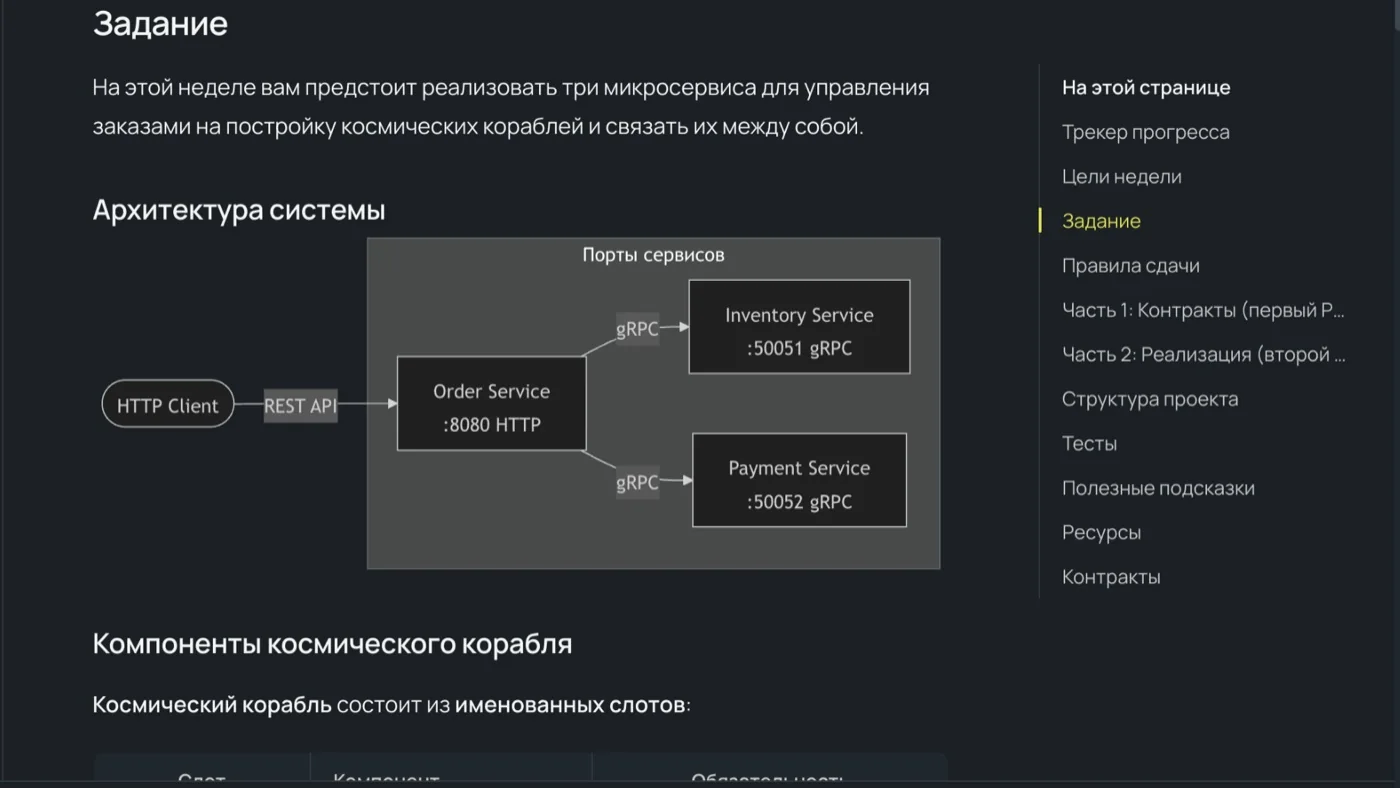
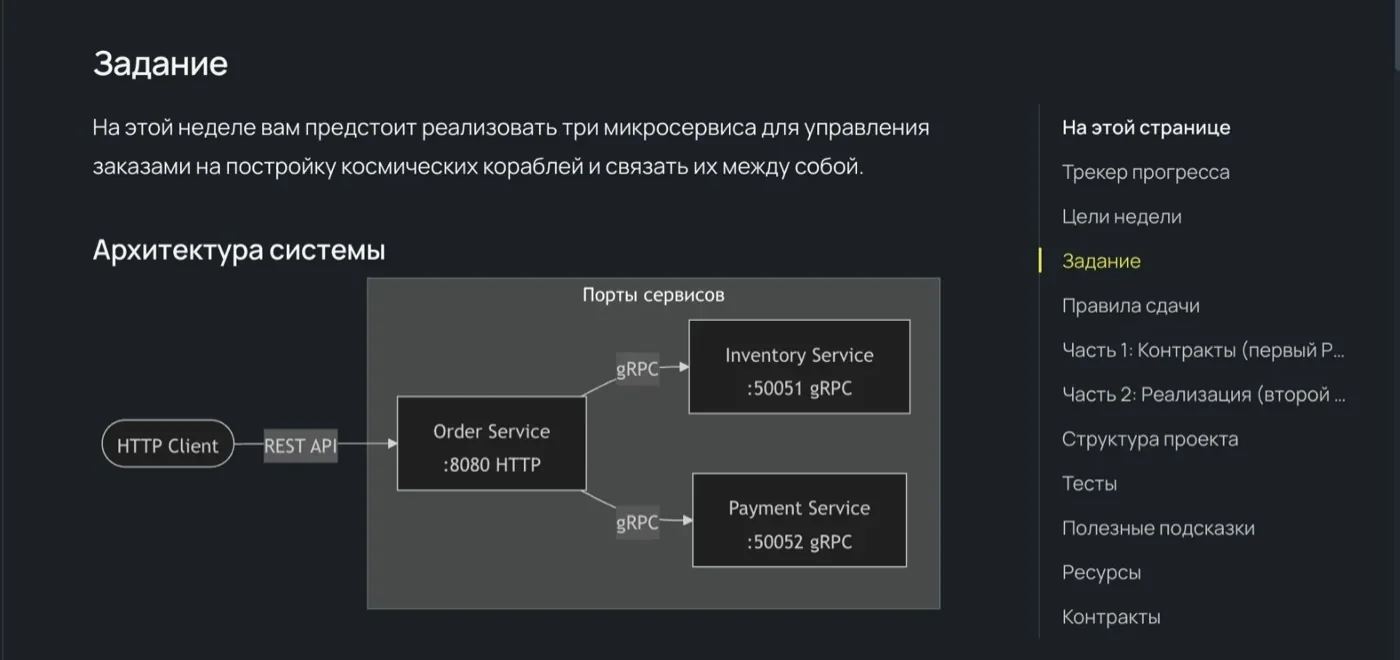
Скрин задания: только схема архитектуры, сверху добавлен воздух
Снизу убраны «Компоненты космического корабля» и начало таблицы слотов — они
обрывались на полуслове и выглядели обрезком страницы, а не кадром. Остаётся
постановка задачи и схема сервисов, то есть ровно то, что доказывает «задание
моделирует бизнес-таску».

Сверху добавлено 40px фона: заголовок «Задание» упирался в край кадра. Воздух
набран размножением верхней строки пикселей, а не заливкой цветом — так
сохранились вертикальные полосы по краям скриншота.

diff --git a/microservices/index.html b/microservices/index.html
@@ -3843,7 +3843,7 @@
             <button type="button" class="steps__mascot" data-modal-open="homework-modal" aria-haspopup="dialog">Коткинс, какие будут задания?</button>
           </div>
           <div class="steps__col steps__col--img">
-            <img class="steps__img" src="learning_process/homework_task.webp" alt="" width="1400" height="788" loading="lazy">
+            <img class="steps__img" src="learning_process/homework_task.webp" alt="" width="1400" height="660" loading="lazy">
           </div>
         </div>
         <!-- Шаг 3 — единственная полноширинная строка в секции: вместо одного

diff --git a/microservices-corp/index.html b/microservices-corp/index.html
@@ -3781,7 +3781,7 @@
             <button type="button" class="steps__mascot" data-modal-open="homework-modal" aria-haspopup="dialog">Какие будут задания?</button>
           </div>
           <div class="steps__col steps__col--img">
-            <img class="steps__img" src="learning_process/homework_task.webp" alt="" width="1400" height="788" loading="lazy">
+            <img class="steps__img" src="learning_process/homework_task.webp" alt="" width="1400" height="660" loading="lazy">
           </div>
         </div>
         <div class="steps__row">
